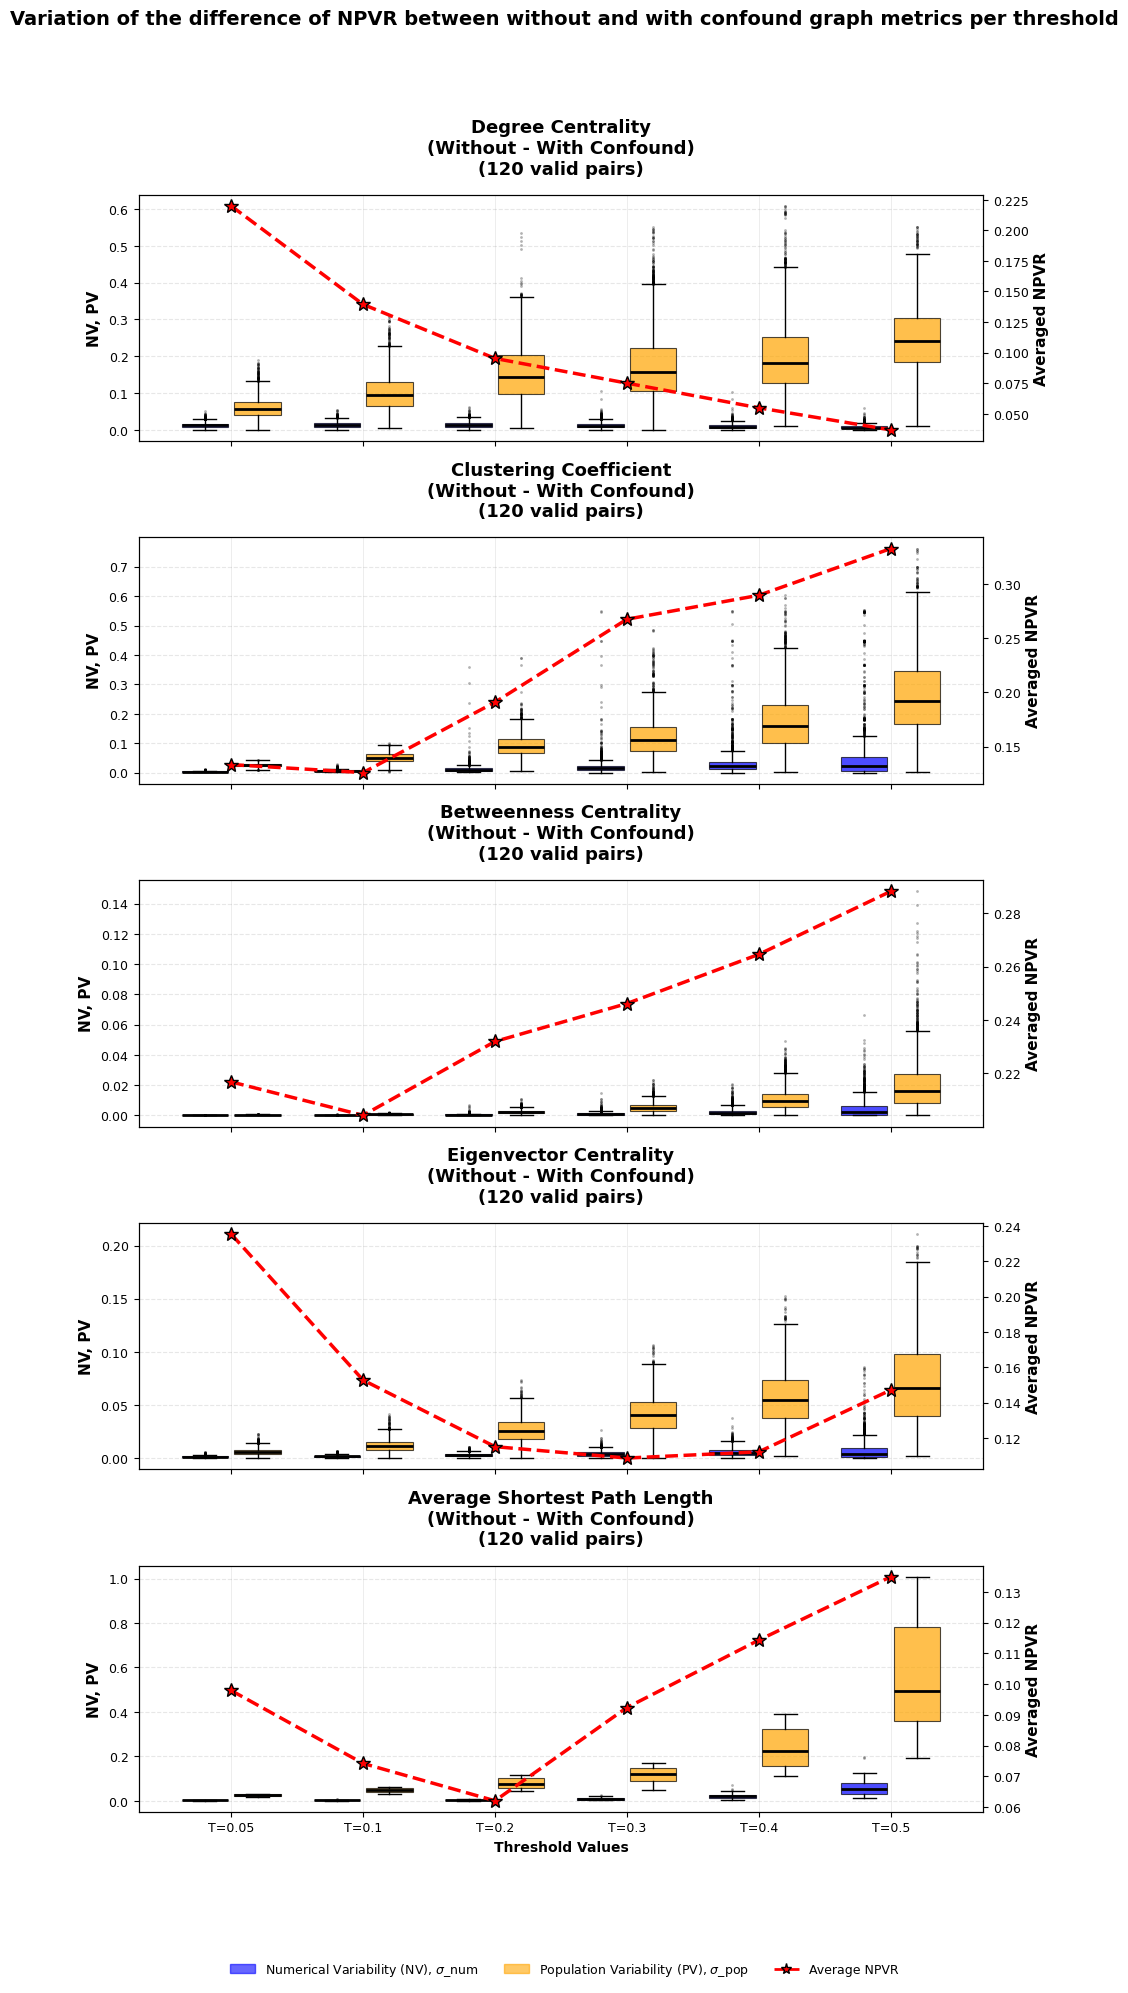
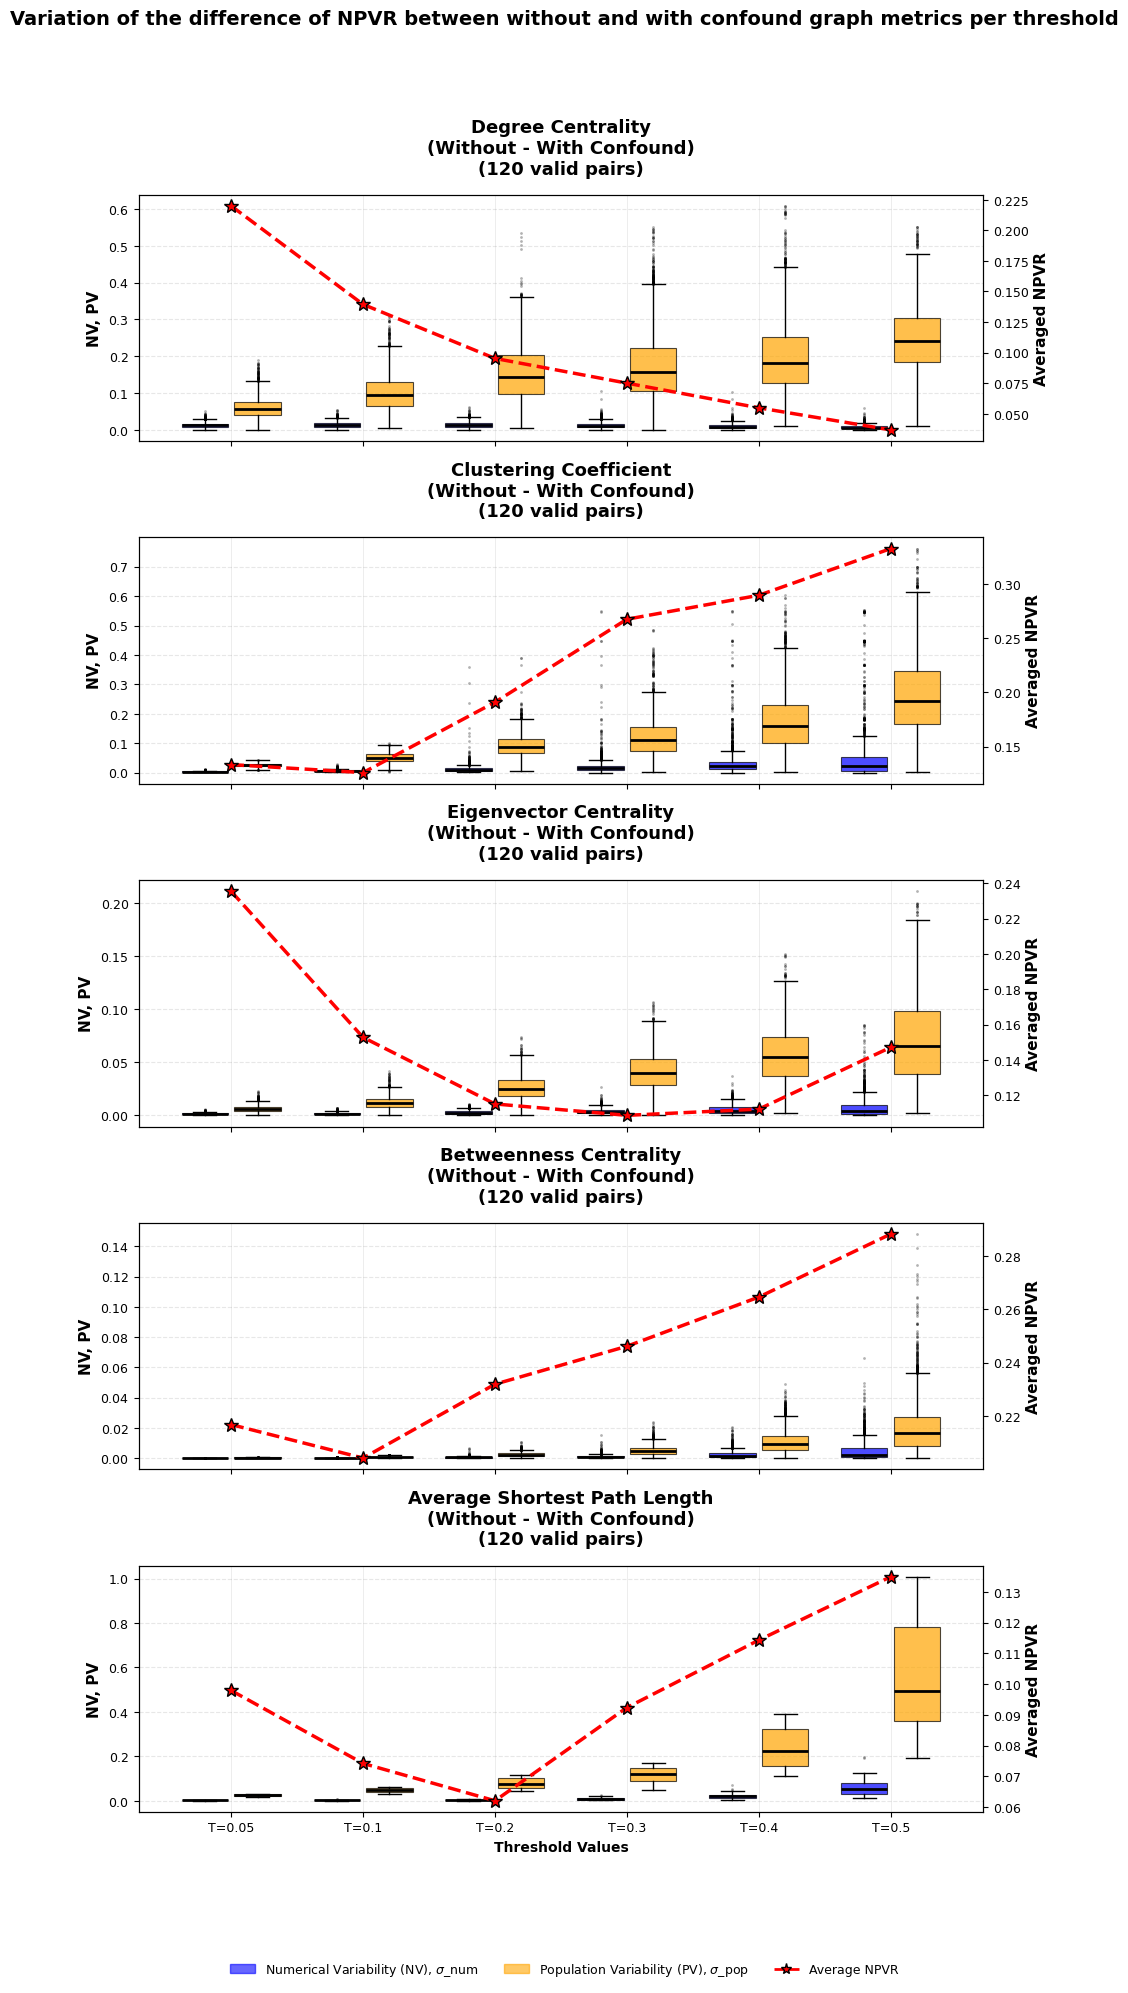
fix: Graph metrics order in notebook

diff --git a/notebooks/fuzzy_fmriprep_graph_metrics_analysis.py b/notebooks/fuzzy_fmriprep_graph_metrics_analysis.py
@@ -66,7 +66,6 @@ def _(
     binary_matrix_plot_paths,
     brain_region_plot_paths,
     difference_plot_path,
-    mo,
     session_comparison_plot_path,
 ):
     def show_image(path, caption=""):
@@ -1223,7 +1222,6 @@ def _():
     return
 
 
-
 @app.cell(hide_code=True)
 def _():
     mo.md(r"""
@@ -1288,7 +1286,6 @@ def _():
     - $\bar{x}_{i,.}^{(r)}$ = row mean (across subjects for run $i$)
     """)
     return
-
 
 
 @app.cell(hide_code=True)
@@ -1546,8 +1543,8 @@ def create_session_comparison_plot(fc_metrics):
     metrics = [
         ("degree_centrality", "Degree Centrality"),
         ("clustering_coefficient", "Clustering Coefficient"),
-        ("betweenness_centrality", "Betweenness Centrality"),
         ("eigenvector_centrality", "Eigenvector Centrality"),
+        ("betweenness_centrality", "Betweenness Centrality"),
         ("average_shortest_path_length", "Average Shortest Path Length"),
     ]
 
@@ -1823,8 +1820,8 @@ def create_difference_plot(fc_metrics):
     metrics = [
         ("degree_centrality", "Degree Centrality"),
         ("clustering_coefficient", "Clustering Coefficient"),
-        ("betweenness_centrality", "Betweenness Centrality"),
         ("eigenvector_centrality", "Eigenvector Centrality"),
+        ("betweenness_centrality", "Betweenness Centrality"),
         ("average_shortest_path_length", "Average Shortest Path Length"),
     ]
 
@@ -2218,4 +2215,3 @@ def _(figures_output_path, fuzzy_fmriprep_analysis, graph_metrics):
 
 if __name__ == "__main__":
     app.run()
-